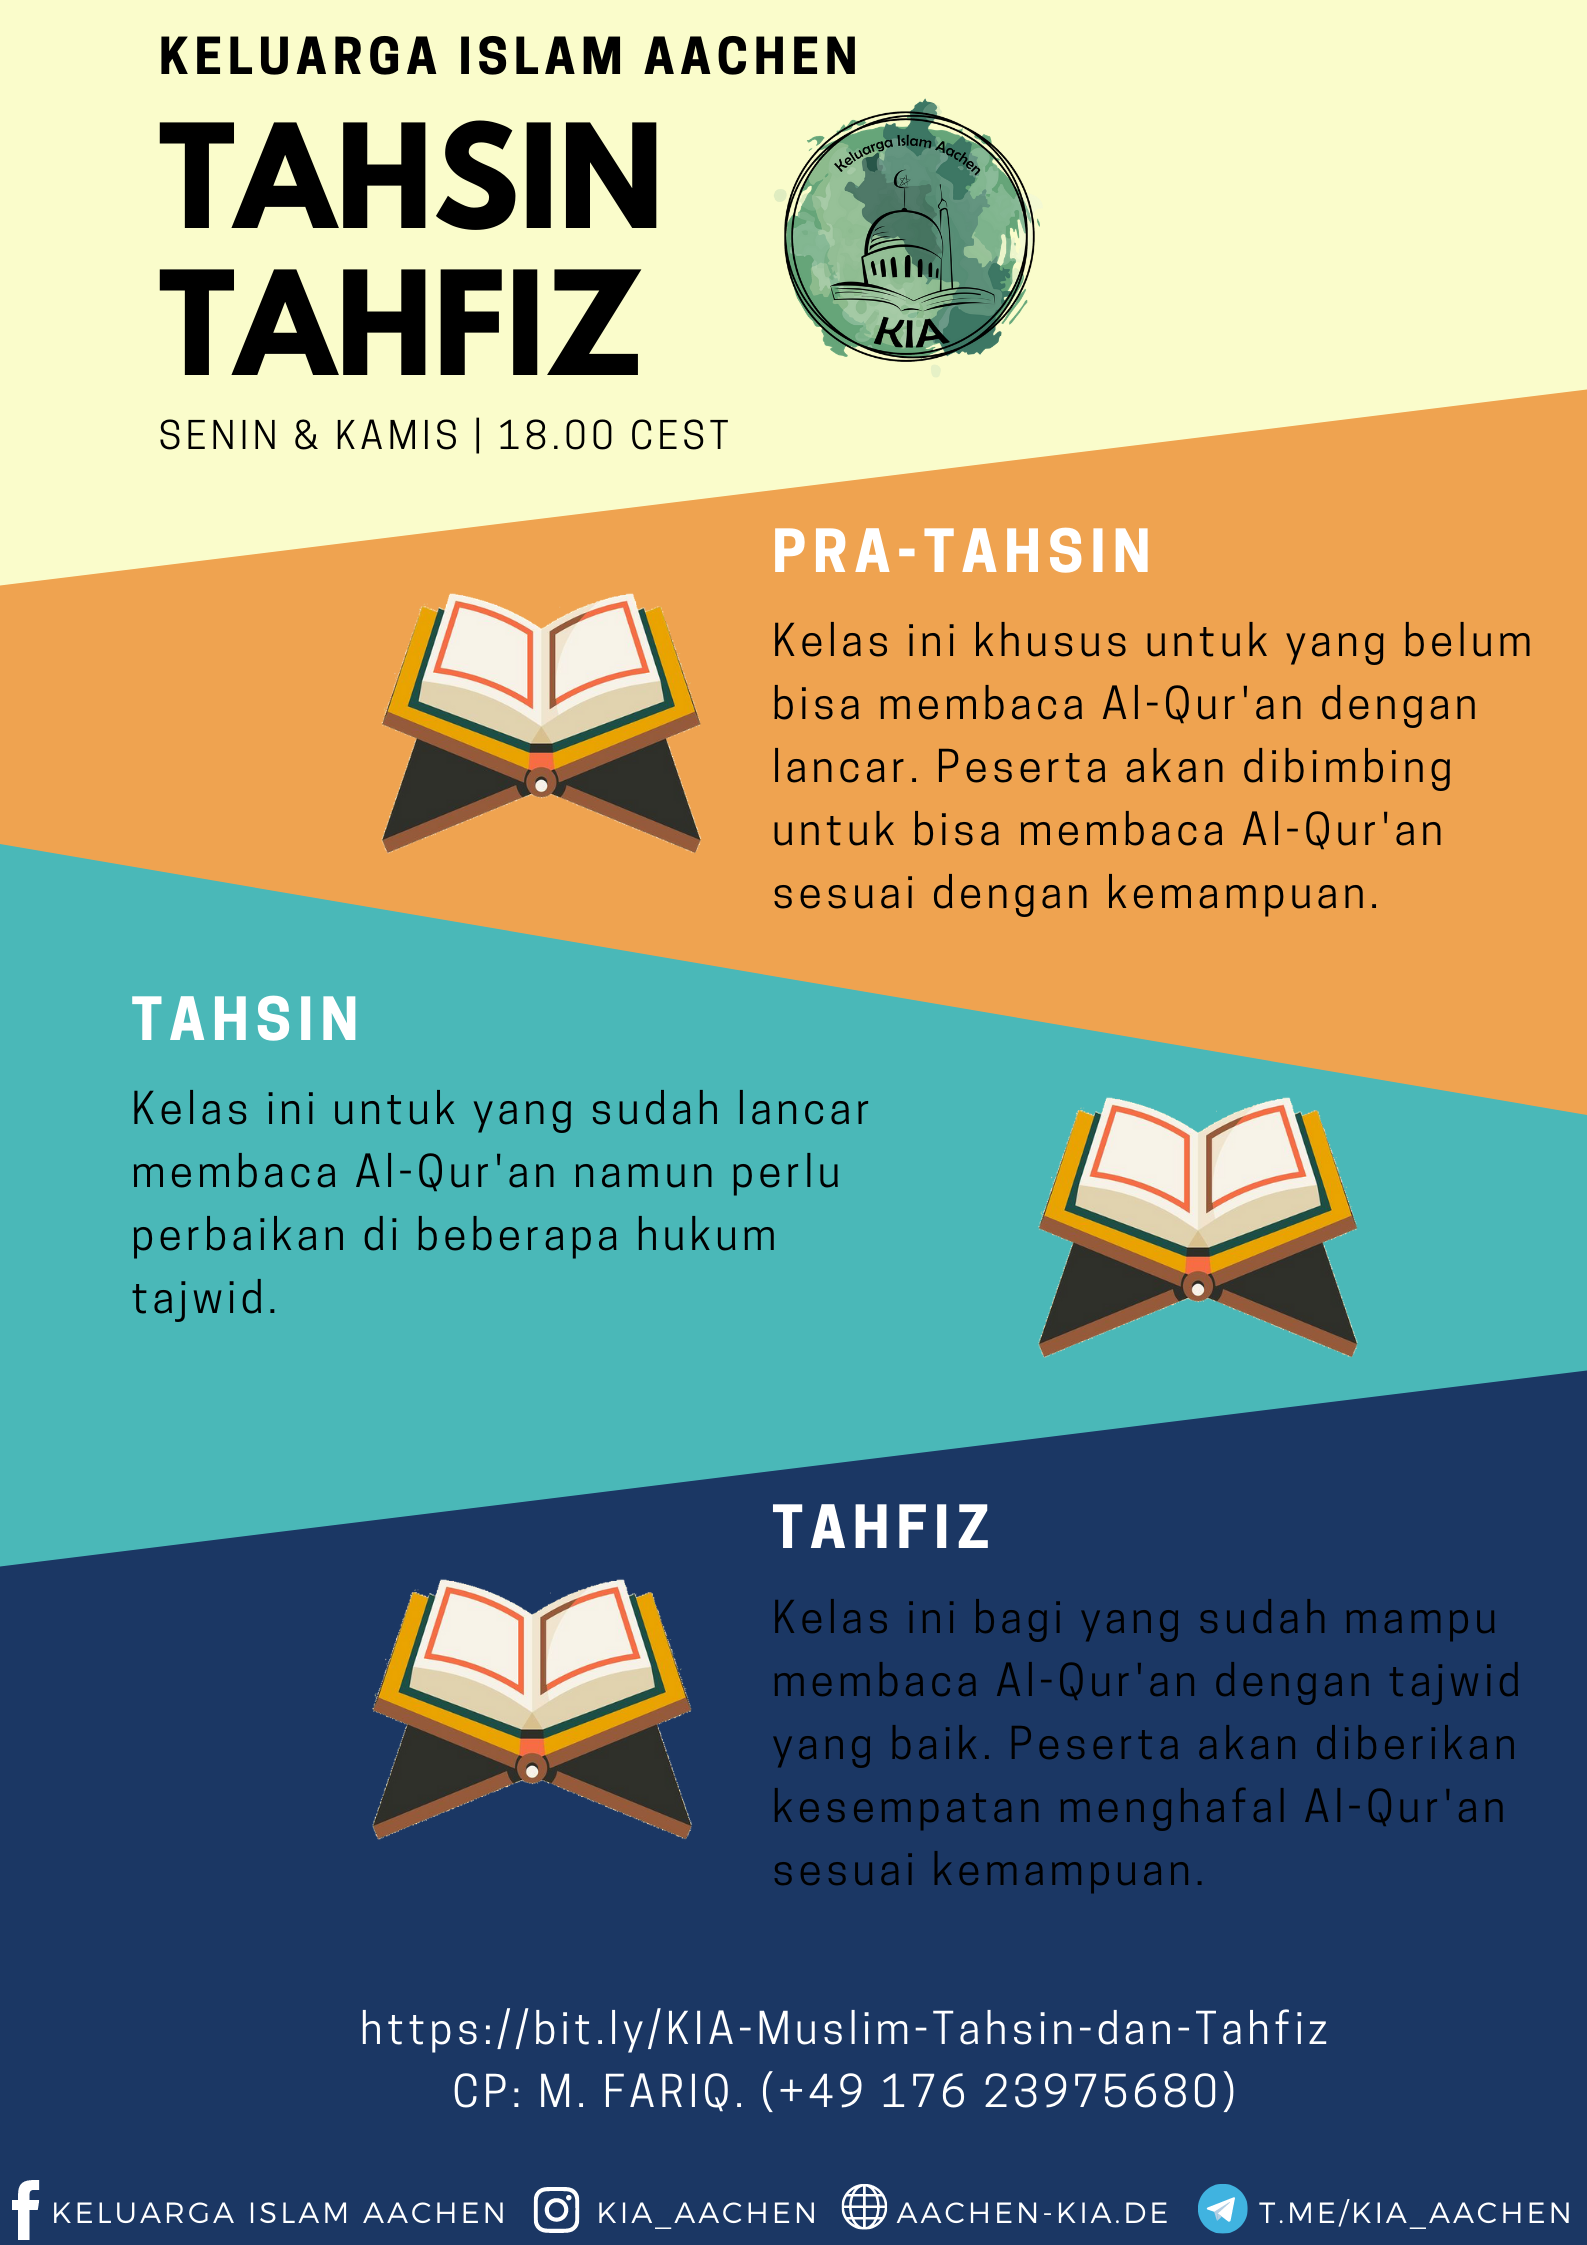
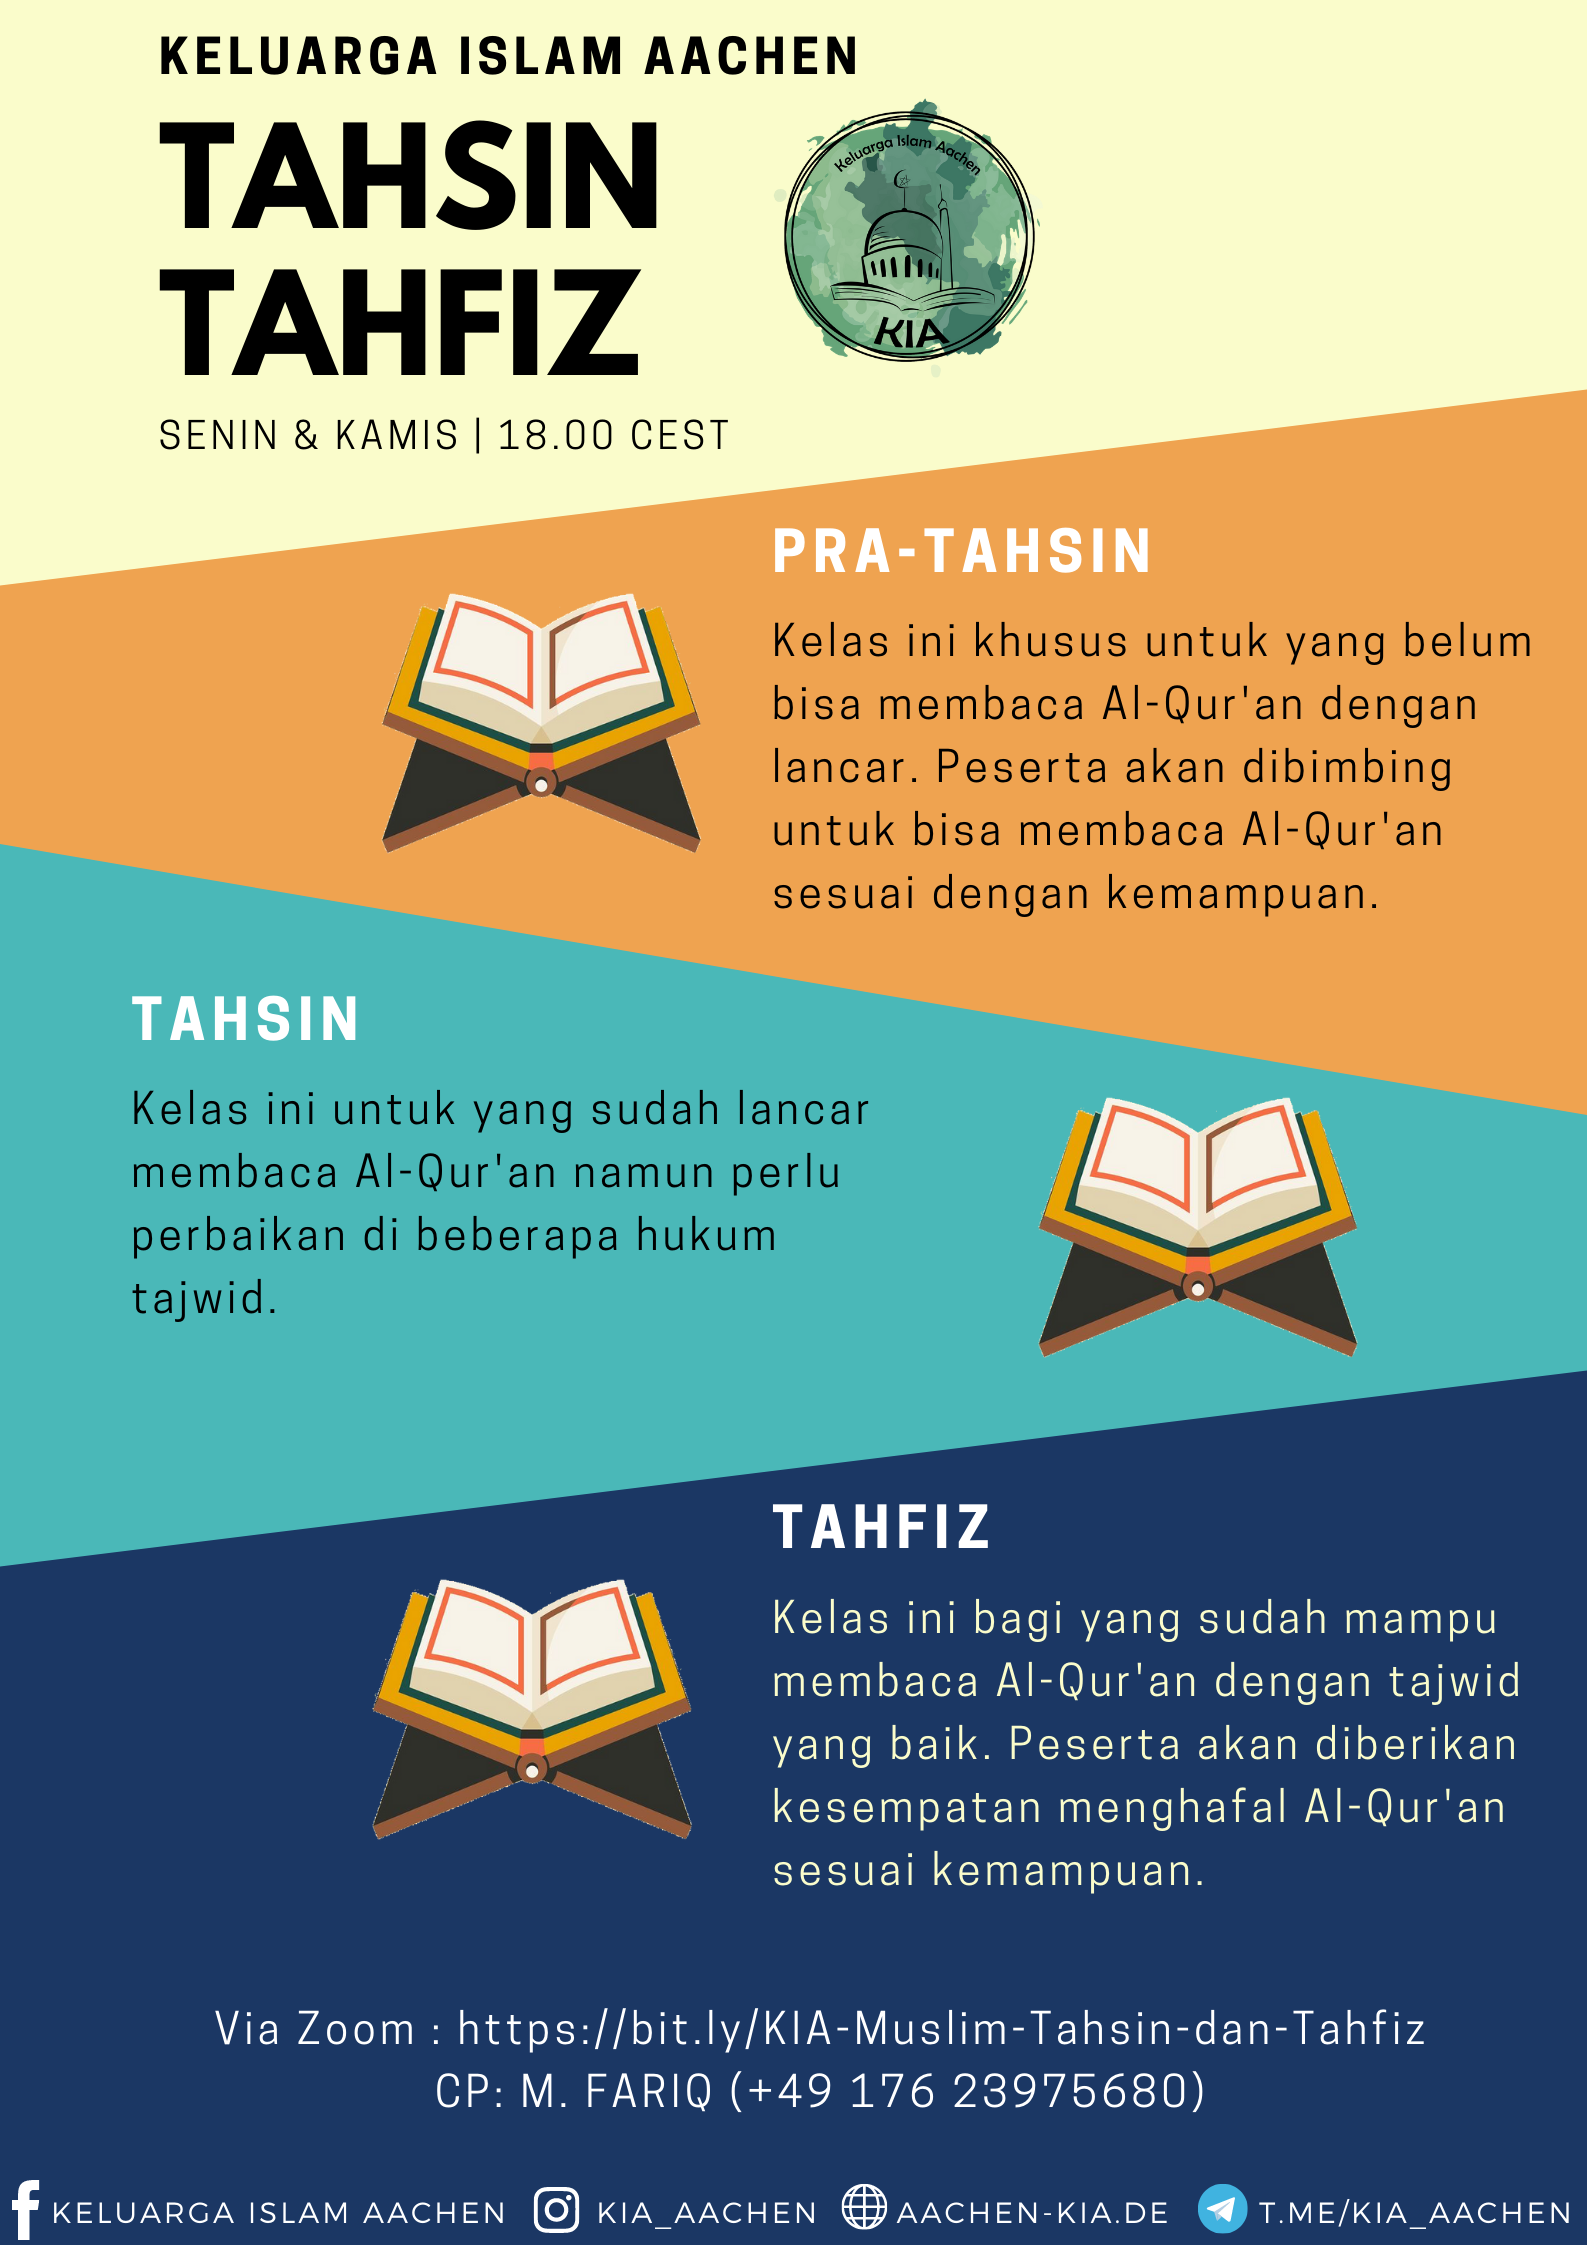
update post tahsin dan desember 2020

Changed region(s): [[0.494, 0.7171, 0.9572, 0.8419], [0.247, 0.8731, 0.7719, 0.9354], [0.8028, 0.8731, 0.8336, 0.9042]]

diff --git a/index.html b/index.html
@@ -382,16 +382,27 @@ SimpleJekyllSearch({
 
 <p>Warga KIA yang dirahmati Allah, KIA akan membuka pendaftaran tahsin &amp; tahfiz yang InshaaAllah akan dilaksanakan pada: <strong>SETIAP HARI SENIN dan KAMIS.</strong></p>
 
-<p>Untuk teknisnya, kita akan membagi peserta ke dalam 3 kelas, sesuai dengan kelancaran bacaan. Diharapkan kepada teman-teman sekalian yang berminat ikut Tahsin dan tahfiz untuk dapat mengisi form pendaftaran berikut.</p>
+<p>Via ZOOM : <a href="https://bit.ly/KIA-Muslim-Tahsin-dan-Tahfiz">https://bit.ly/KIA-Muslim-Tahsin-dan-Tahfiz</a></p>
 
-<p><a href="https://forms.gle/ZTLULWNXD2RVVwbT7">https://forms.gle/ZTLULWNXD2RVVwbT7</a></p>
+<p>Meeting ID: 830 8463 1948<br />
+Passcode: 408278</p>
 
-<p>Bagi teman-teman calon peserta yang bingung dalam memilih tingkatannya, mungkin bisa mengisi tingkatan <strong>“Menengah”</strong> dahulu. Dan nanti setelah itu akan dinilai dan dimasukkan kedalam grup yang InshaaAllah tepat untuk teman-teman sekalian.</p>
+<p>Untuk teknisnya, kita akan membagi peserta ke dalam 3 kelas, sesuai dengan kelancaran bacaan. Diharapkan kepada teman-teman sekalian yang berminat ikut Tahsin dan Tahfiz untuk dapat mengisi form pendaftaran berikut :
+<a href="http://bit.ly/Tahsin-dan-Tahfiz-KIA">http://bit.ly/Tahsin-dan-Tahfiz-KIA</a></p>
 
-<p>Demikian pengumuman pembukaan kelas tahsin &amp; tahfiz. Semoga dengan dibukanya program ini dapat menambah ilmu ataupun pahala untuk kita semua. 
+<p>Bagi teman-teman calon peserta yang bingung dalam memilih tingkatannya, mungkin bisa memilih kelas Tahsin dahulu. Dan nanti setelah itu akan dinilai dan dimasukkan kedalam kelas yang InshaaAllah tepat untuk teman-teman sekalian.</p>
+
+<p>Demikian pengumuman pembukaan kelas Tahsin &amp; Tahfiz. Semoga dengan dibukanya program ini dapat menambah ilmu ataupun pahala untuk kita semua. <br />
 Aamiin yaa Rabbal Aalamiin.</p>
 
 <p>Wassalamu’alaikum warahmatullahi wabarakatuh.</p>
+
+<p>Koordinator KIA 2020/21<br />
+_____<br />
+FB: Keluarga Islam Aachen<br />
+IG dan Telegram: @kia_aachen<br />
+Youtube: KIA Keluarga Islam Aachen<br />
+Website: aachen-kia.de</p>
 
 	<hr>
 
@@ -425,6 +436,8 @@ Aamiin yaa Rabbal Aalamiin.</p>
 آمين يارب العالمين</p>
 
 <div align="right">والسلام عليكم ورحمة الله وبركاته <div> 
+
+Koordinator KIA 2020/21
 </div></div>
 
 	<hr>

diff --git a/2020/12/02/pendaftaran-tahsintahfiz-muslim.html b/2020/12/02/pendaftaran-tahsintahfiz-muslim.html
@@ -362,16 +362,27 @@
 
 <p>Warga KIA yang dirahmati Allah, KIA akan membuka pendaftaran tahsin &amp; tahfiz yang InshaaAllah akan dilaksanakan pada: <strong>SETIAP HARI SENIN dan KAMIS.</strong></p>
 
-<p>Untuk teknisnya, kita akan membagi peserta ke dalam 3 kelas, sesuai dengan kelancaran bacaan. Diharapkan kepada teman-teman sekalian yang berminat ikut Tahsin dan tahfiz untuk dapat mengisi form pendaftaran berikut.</p>
+<p>Via ZOOM : <a href="https://bit.ly/KIA-Muslim-Tahsin-dan-Tahfiz">https://bit.ly/KIA-Muslim-Tahsin-dan-Tahfiz</a></p>
 
-<p><a href="https://forms.gle/ZTLULWNXD2RVVwbT7">https://forms.gle/ZTLULWNXD2RVVwbT7</a></p>
+<p>Meeting ID: 830 8463 1948<br />
+Passcode: 408278</p>
 
-<p>Bagi teman-teman calon peserta yang bingung dalam memilih tingkatannya, mungkin bisa mengisi tingkatan <strong>“Menengah”</strong> dahulu. Dan nanti setelah itu akan dinilai dan dimasukkan kedalam grup yang InshaaAllah tepat untuk teman-teman sekalian.</p>
+<p>Untuk teknisnya, kita akan membagi peserta ke dalam 3 kelas, sesuai dengan kelancaran bacaan. Diharapkan kepada teman-teman sekalian yang berminat ikut Tahsin dan Tahfiz untuk dapat mengisi form pendaftaran berikut :
+<a href="http://bit.ly/Tahsin-dan-Tahfiz-KIA">http://bit.ly/Tahsin-dan-Tahfiz-KIA</a></p>
 
-<p>Demikian pengumuman pembukaan kelas tahsin &amp; tahfiz. Semoga dengan dibukanya program ini dapat menambah ilmu ataupun pahala untuk kita semua. 
+<p>Bagi teman-teman calon peserta yang bingung dalam memilih tingkatannya, mungkin bisa memilih kelas Tahsin dahulu. Dan nanti setelah itu akan dinilai dan dimasukkan kedalam kelas yang InshaaAllah tepat untuk teman-teman sekalian.</p>
+
+<p>Demikian pengumuman pembukaan kelas Tahsin &amp; Tahfiz. Semoga dengan dibukanya program ini dapat menambah ilmu ataupun pahala untuk kita semua. <br />
 Aamiin yaa Rabbal Aalamiin.</p>
 
 <p>Wassalamu’alaikum warahmatullahi wabarakatuh.</p>
+
+<p>Koordinator KIA 2020/21<br />
+_____<br />
+FB: Keluarga Islam Aachen<br />
+IG dan Telegram: @kia_aachen<br />
+Youtube: KIA Keluarga Islam Aachen<br />
+Website: aachen-kia.de</p>
 
 
 <hr>

diff --git a/2020/12/01/pengumuman-desember-2020.html b/2020/12/01/pengumuman-desember-2020.html
@@ -378,6 +378,8 @@
 آمين يارب العالمين</p>
 
 <div align="right">والسلام عليكم ورحمة الله وبركاته <div> 
+
+Koordinator KIA 2020/21
 </div></div>
 
 
